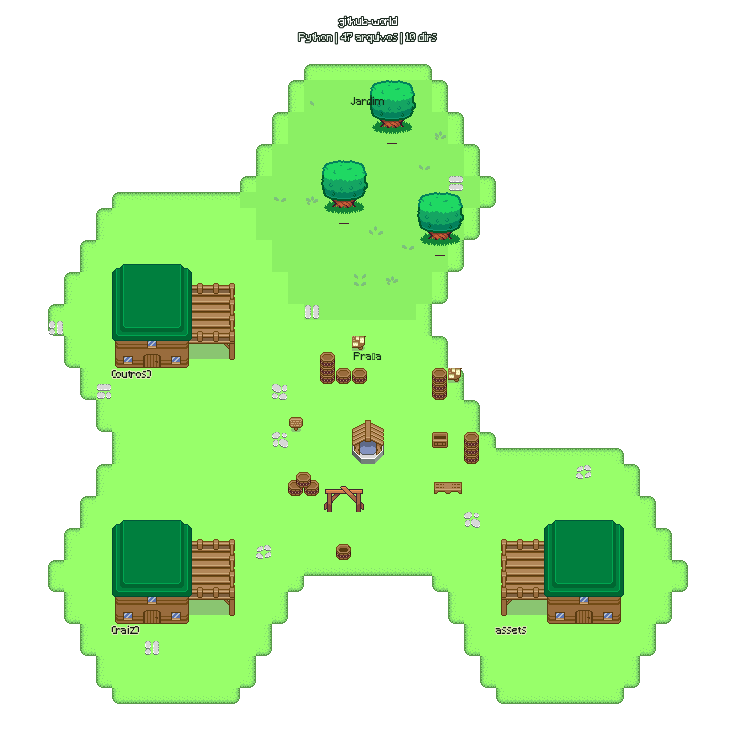
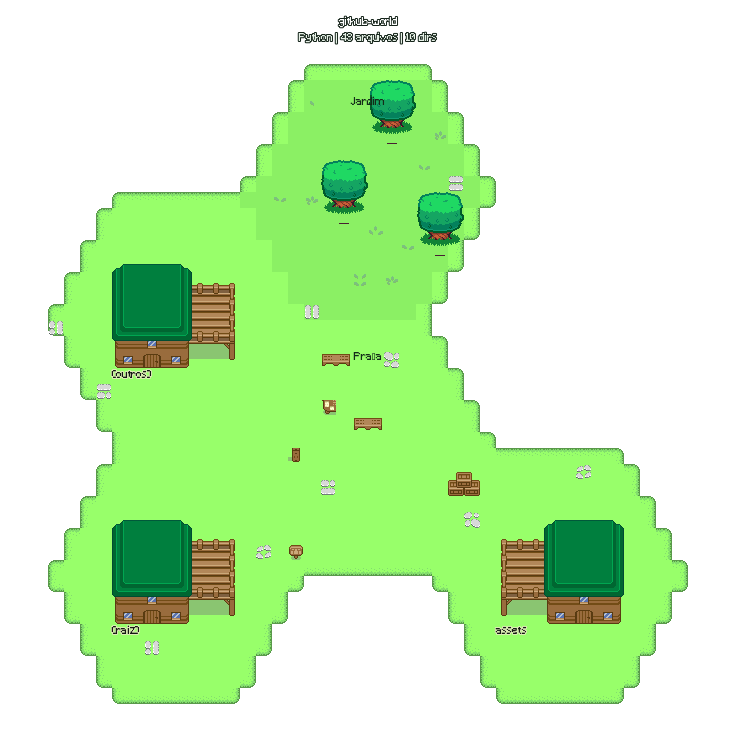
feat: adiciona painel com ícone do repositório

diff --git a/renderer.py b/renderer.py
@@ -1,11 +1,55 @@
 """Desenha o cenário e anima o personagem sobre os caminhos."""
+import base64
+from io import BytesIO
 from pathlib import Path
-from PIL import Image, ImageDraw, ImageFont
+from PIL import Image, ImageDraw, ImageFont, ImageOps
 from assets import assets
 from layout import TILE_SIZE
 
 BASE_DIR = Path(__file__).resolve().parent
 SHOW_PATH_TILES = False
+
+
+def make_info_panel(title, content_size, font):
+    padding_x = 12
+    title_height = 24
+    padding_bottom = 6
+    text_box = font.getbbox(title)
+    text_width = text_box[2] - text_box[0]
+    width = max(content_size[0] + padding_x*2, text_width + padding_x*2)
+    height = content_size[1] + title_height + padding_bottom
+    panel = Image.new('RGBA', (width, height), (18, 42, 30, 210))
+    draw = ImageDraw.Draw(panel)
+    draw.rounded_rectangle(
+        (0, 0, width-1, height-1),
+        radius=8,
+        outline=(220, 235, 180, 255),
+        width=2,
+    )
+    draw.text(
+        (width//2, 8), title, font=font, anchor='mt',
+        fill=(230, 240, 230, 255),
+    )
+    return panel, title_height, padding_bottom
+
+
+def repository_icon(profile, size=(80, 80)):
+    """Decodifica nome-do-repositorio.png ou cria um fallback com a inicial."""
+    if profile.icon_base64:
+        try:
+            source = Image.open(BytesIO(base64.b64decode(profile.icon_base64))).convert('RGBA')
+            contained = ImageOps.contain(source, size, Image.Resampling.NEAREST)
+            icon = Image.new('RGBA', size, (0, 0, 0, 0))
+            icon.paste(contained, ((size[0]-contained.width)//2, (size[1]-contained.height)//2), contained)
+            return icon
+        except (OSError, ValueError):
+            pass
+    icon = Image.new('RGBA', size, (0, 0, 0, 0))
+    draw = ImageDraw.Draw(icon)
+    draw.ellipse((8, 8, size[0]-9, size[1]-9), fill=(42, 112, 72, 255), outline=(220, 235, 180, 255), width=2)
+    font = ImageFont.truetype(str(BASE_DIR/'assets/fonts/pixel.ttf'), 28)
+    draw.text((size[0]//2, size[1]//2), profile.name[:1].upper(), font=font, anchor='mm', fill='white')
+    return icon
 
 
 def paste_asset(canvas, name, x, y):
@@ -105,46 +149,41 @@ def save_world(islands, dimensions, output_dir):
     returning = list(range(44,-1,-4))
     offsets = outbound + returning if runs else [0]*len(walker_sprites)
 
-    panel_padding_x = 12
-    panel_title_height = 24
-    panel_padding_bottom = 6
     panel_font = ImageFont.truetype(str(BASE_DIR/'assets/fonts/pixel.ttf'), 8)
     panel_title = 'NevesJulio'
-    text_box = panel_font.getbbox(panel_title)
-    text_width = text_box[2] - text_box[0]
     portrait_width = max(sprite.width for sprite in portrait_sprites)
     portrait_height = max(sprite.height for sprite in portrait_sprites)
-    panel_width = max(
-        portrait_width + panel_padding_x*2,
-        text_width + panel_padding_x*2,
+    panel, panel_title_height, panel_padding_bottom = make_info_panel(
+        panel_title,
+        (portrait_width, portrait_height),
+        panel_font,
     )
-    panel_height = portrait_height + panel_title_height + panel_padding_bottom
+    panel_width, panel_height = panel.size
     panel_x = background.width - panel_width - 24
     panel_y = 56
+
+    repo_icon = repository_icon(first.profile)
+    repo_panel, repo_title_height, repo_padding_bottom = make_info_panel(
+        first.profile.name,
+        repo_icon.size,
+        panel_font,
+    )
+    repo_panel_x = 24
+    repo_panel_y = panel_y
     frames = []
     for i, offset in enumerate(offsets):
         frame = background.copy()
-        panel = Image.new('RGBA', (panel_width, panel_height), (18, 42, 30, 210))
-        panel_draw = ImageDraw.Draw(panel)
-        panel_draw.rounded_rectangle(
-            (0, 0, panel_width-1, panel_height-1),
-            radius=8,
-            outline=(220, 235, 180, 255),
-            width=2,
-        )
-        panel_draw.text(
-            (panel_width//2, 8),
-            panel_title,
-            font=panel_font,
-            anchor='mt',
-            fill=(230, 240, 230, 255),
-        )
         frame.alpha_composite(panel, (panel_x, panel_y))
         portrait = portrait_sprites[i % len(portrait_sprites)]
         bob = (0, 1, 0, -1)[i % 4]
         portrait_x = panel_x + (panel_width-portrait.width)//2
         portrait_y = panel_y + panel_height-portrait.height-panel_padding_bottom+bob
         frame.paste(portrait, (portrait_x, portrait_y), portrait)
+
+        frame.alpha_composite(repo_panel, (repo_panel_x, repo_panel_y))
+        repo_icon_x = repo_panel_x + (repo_panel.width-repo_icon.width)//2
+        repo_icon_y = repo_panel_y + repo_title_height
+        frame.paste(repo_icon, (repo_icon_x, repo_icon_y), repo_icon)
 
         walker = walker_sprites[i % len(walker_sprites)]
         # Os frames laterais originais olham para a esquerda.

diff --git a/tests/test_world.py b/tests/test_world.py
@@ -34,8 +34,9 @@ class ProfileTests(unittest.TestCase):
         self.assertEqual([DirectoryProfile('d', n, 1).size for n in [1, 20, 80]], [1, 2, 3])
 
     def test_empty_and_truncated_repository(self):
-        p = profile_repository({'name': 'empty', 'tree_truncated': True})
+        p = profile_repository({'name': 'empty', 'tree_truncated': True, 'icon_base64': 'aWNvbg=='})
         self.assertTrue(p.incomplete)
+        self.assertEqual(p.icon_base64, 'aWNvbg==')
         self.assertEqual(p.files, 0)
         self.assertEqual(len(p.districts), 1)
         self.assertIsNone(p.recent_commits)
@@ -132,6 +133,16 @@ class ProfileTests(unittest.TestCase):
 
 
 class CollectionTests(unittest.TestCase):
+    def test_repository_icon_uses_matching_root_png(self):
+        repo = {'name': 'project', 'full_name': 'user/project', 'default_branch': 'main', 'fork': False}
+        tree = {'tree': [{'path': 'project.png', 'type': 'blob', 'sha': 'icon-sha'}]}
+        client = GitHubClient()
+        with patch.object(client, 'repositories', return_value=[repo]), patch.object(
+            client, 'get', side_effect=[tree, {}, [], {'encoding': 'base64', 'content': 'aWNvbg=='}]
+        ):
+            data = client.collect()[0]
+        self.assertEqual(data['icon_base64'], 'aWNvbg==')
+
     def test_optional_api_failure_is_marked_as_unknown(self):
         repo = {'name': 'empty', 'full_name': 'user/empty', 'default_branch': 'main'}
         client = GitHubClient()

diff --git a/github_activity.py b/github_activity.py
@@ -48,6 +48,17 @@ class GitHubClient:
             tree = optional(f"/git/trees/{quote(repo['default_branch'], safe='')}", {"tree": [], "unavailable": True}, recursive=1)
             languages = optional("/languages", {})
             commits = optional("/commits", None, since=since, per_page=100)
+            icon_name = f"{repo['name']}.png"
+            icon_entry = next(
+                (entry for entry in tree.get("tree", [])
+                 if entry.get("type") == "blob" and entry.get("path") == icon_name),
+                None,
+            )
+            icon_base64 = None
+            if icon_entry:
+                blob = optional(f"/git/blobs/{icon_entry['sha']}", {})
+                if blob.get("encoding") == "base64":
+                    icon_base64 = blob.get("content")
             result.append({
                 "name": repo["name"], "main_language": repo.get("language"),
                 "languages": languages, "topics": repo.get("topics", []),
@@ -56,6 +67,7 @@ class GitHubClient:
                 "tree_unavailable": tree.get("unavailable", False),
                 "recent_commits": len(commits) if commits is not None else None,
                 "commits_capped": commits is not None and len(commits) == 100,
+                "icon_base64": icon_base64,
                 "warnings": warnings,
             })
         return result

diff --git a/repo_profile.py b/repo_profile.py
@@ -18,6 +18,7 @@ class DirectoryProfile:
 @dataclass(frozen=True)
 class RepoProfile:
     name: str
+    icon_base64: str | None
     main_language: str
     languages: tuple
     files: int
@@ -67,4 +68,4 @@ def profile_repository(data):
     if data.get('pushed_at') and data.get('as_of'):
         inactive = max(0, (datetime.fromisoformat(data['as_of'].replace('Z', '+00:00')) - datetime.fromisoformat(data['pushed_at'].replace('Z', '+00:00'))).days)
     count = len(paths)
-    return RepoProfile(data['name'], language, languages, count, len(directories), max((len(PurePosixPath(p).parts)-1 for p in paths), default=0), data.get('recent_commits'), inactive, has_tests, has_docs, dependencies, 3 if count >= 200 else 2 if count >= 40 else 1, theme, tuple(districts), bool(data.get('tree_truncated') or data.get('tree_unavailable')))
+    return RepoProfile(data['name'], data.get('icon_base64'), language, languages, count, len(directories), max((len(PurePosixPath(p).parts)-1 for p in paths), default=0), data.get('recent_commits'), inactive, has_tests, has_docs, dependencies, 3 if count >= 200 else 2 if count >= 40 else 1, theme, tuple(districts), bool(data.get('tree_truncated') or data.get('tree_unavailable')))

diff --git a/generate.py b/generate.py
@@ -1,5 +1,6 @@
 """Coordena coleta, interpretação, layout e renderização."""
 import argparse
+import base64
 import json
 from pathlib import Path
 import sys
@@ -19,7 +20,9 @@ def local_repository(root):
         relative = path.relative_to(root)
         if path.is_file() and not (set(relative.parts) & excluded):
             tree.append({'path': relative.as_posix(), 'type': 'blob'})
-    return {'name': root.name, 'main_language': 'Python', 'languages': {'Python': 1}, 'tree': tree, 'recent_commits': None, 'topics': []}
+    icon_path = root / f'{root.name}.png'
+    icon_base64 = base64.b64encode(icon_path.read_bytes()).decode() if icon_path.is_file() else None
+    return {'name': root.name, 'icon_base64': icon_base64, 'main_language': 'Python', 'languages': {'Python': 1}, 'tree': tree, 'recent_commits': None, 'topics': []}
 
 
 def main():

diff --git a/README.md b/README.md
@@ -40,7 +40,17 @@ python3 generate.py --save-data /tmp/repos.json
 python3 generate.py --data /tmp/repos.json --output-dir /tmp/meu-mapa
 ```
 
-O JSON contém uma lista de repositórios com `name`, `tree` (entradas com `path` e `type`), `main_language`, `languages` (bytes por linguagem), `topics`, `recent_commits`, `pushed_at` e `as_of`. O layout e a decoração são determinísticos para os mesmos dados e assets, usando uma semente por nome de repositório e frames ordenados.
+O JSON contém uma lista de repositórios com `name`, `tree` (entradas com `path` e `type`), `main_language`, `languages` (bytes por linguagem), `topics`, `recent_commits`, `pushed_at`, `as_of` e o ícone opcional em `icon_base64`. O layout e a decoração são determinísticos para os mesmos dados e assets, usando uma semente por nome de repositório e frames ordenados.
+
+## Ícone do repositório
+
+O GIF mostra um painel no canto superior esquerdo com o nome e o ícone do repositório. Para definir o ícone, coloque um PNG na raiz do próprio repositório usando exatamente o nome do projeto. Por exemplo:
+
+```text
+github-world/github-world.png
+```
+
+O nome diferencia maiúsculas de minúsculas. A coleta encontra esse arquivo na árvore da branch padrão e baixa seu conteúdo pela API do GitHub. No modo `--offline`, o gerador procura o mesmo arquivo na raiz local. Imagens retangulares mantêm sua proporção e são centralizadas; se o arquivo não existir ou for inválido, aparece um círculo com a inicial do repositório.
 
 ## Significado visual
 
